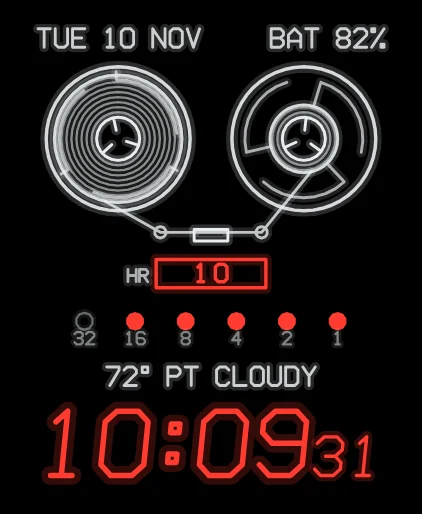
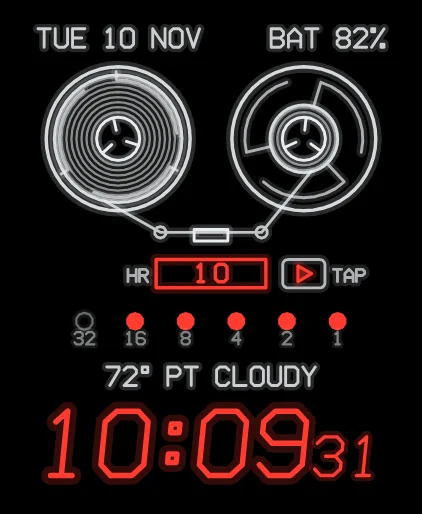
Vector Faces page: GPS and My Photo, taps, and the privacy policy
The gallery adds the GPS and My Photo faces (moving, Coming soon) and
the new descriptions for faces that react to a tap or the wrist; the
tape deck and radio pictures show their new play key. The privacy
policy covers the GPS face, the Cockpit's motion sensors and the
iPhone's Photo to Vector tool. Deployed and checked live.

Claude-Session: https://claude.ai/code/session_01K9MtsEeBZvCAswp1iy9rtu

Changed region(s): [[0.6469, 0.4981, 0.8934, 0.5914]]

diff --git a/hq/src/lib/vectorFacesGallery.ts b/hq/src/lib/vectorFacesGallery.ts
@@ -23,6 +23,7 @@ export const VECTOR_FACES_GALLERY: GalleryGroup[] = [
       { key: 'issTracker', title: 'ISS Tracker', summary: 'Where the International Space Station is now, and when it next passes over you.', soon: true, loop: true },
       { key: 'satellites', title: 'Satellites', summary: 'The real satellites crossing your sky right now.', soon: true, loop: true },
       { key: 'earthquakes', title: 'Earthquakes', summary: 'Earthquakes round the world in the last day, and the nearest to you.', soon: true, loop: true },
+      { key: 'gps', title: 'GPS', summary: 'Your speed, heading, altitude and trail from the watch\'s own GPS.', soon: true, loop: true },
     ],
   },
   {
@@ -38,8 +39,8 @@ export const VECTOR_FACES_GALLERY: GalleryGroup[] = [
     id: 'characters',
     title: 'Characters',
     faces: [
-      { key: 'buddy', title: 'Buddy', summary: 'A round little friend who looks about, blinks and says the time.', loop: true },
-      { key: 'bot', title: 'Bot', summary: 'A small robot with light-panel eyes and a dancing mouth.', loop: true },
+      { key: 'buddy', title: 'Buddy', summary: 'A round little friend who looks about, blinks and says the time. Tap and Buddy giggles.', loop: true },
+      { key: 'bot', title: 'Bot', summary: 'A small robot with light-panel eyes and a dancing mouth. Tap to make it happy.', loop: true },
     ],
   },
   {
@@ -50,8 +51,8 @@ export const VECTOR_FACES_GALLERY: GalleryGroup[] = [
       { key: 'chase', title: 'Chase', summary: 'A dog chases a cat round the screen once a minute.', soon: true, loop: true },
       { key: 'hamster', title: 'Hamster Wheel', summary: 'A hamster runs its wheel with the seconds.', soon: true, loop: true },
       { key: 'fishTank', title: 'Fish Tank', summary: 'Fish swim and bubbles rise in a little tank.', soon: true, loop: true },
-      { key: 'laserCat', title: 'Laser Cat', summary: 'A cat chases a laser dot that keeps the seconds.', soon: true, loop: true },
-      { key: 'goodDog', title: 'Good Dog', summary: 'A dog wags its tail with the seconds and perks up on the hour.', soon: true, loop: true },
+      { key: 'laserCat', title: 'Laser Cat', summary: 'A cat chases a laser dot that keeps the seconds. Tap and it pounces.', soon: true, loop: true },
+      { key: 'goodDog', title: 'Good Dog', summary: 'A dog wags its tail with the seconds and perks up on the hour. Tap for a happy jump.', soon: true, loop: true },
       { key: 'yarn', title: 'Yarn', summary: 'A ball of yarn unrolls over the hour.', soon: true, loop: true },
       { key: 'foodBowl', title: 'Food Bowl', summary: 'A pet\'s bowl empties through the day and fills at mealtimes.', soon: true, loop: true },
       { key: 'fireflies', title: 'Fireflies', summary: 'Fireflies glow and drift over the grass.', soon: true, loop: true },
@@ -112,9 +113,9 @@ export const VECTOR_FACES_GALLERY: GalleryGroup[] = [
       { key: 'intercept', title: 'Intercept', summary: 'Scales scroll for the hands, with a craft in the sights.', loop: true },
       { key: 'scope', title: 'Scope', summary: 'An oscilloscope beam writes the time.', loop: true },
       { key: 'sonar', title: 'Sonar', summary: 'Pings, echoes and a waterfall of past pings.', loop: true },
-      { key: 'cockpit', title: 'Cockpit', summary: 'Flight tapes for the minute, hour and second.', loop: true },
-      { key: 'tuner', title: 'Tuner', summary: 'A radio dial needle sweeps the hour.', loop: true },
-      { key: 'reels', title: 'Reels', summary: 'Tape winds from reel to reel through the hour.', loop: true },
+      { key: 'cockpit', title: 'Cockpit', summary: 'Flight tapes tell the time; the horizon tilts with your wrist and shows your altitude.', loop: true },
+      { key: 'tuner', title: 'Tuner', summary: 'A radio dial needle sweeps the hour. Tap for your music controls.', loop: true },
+      { key: 'reels', title: 'Reels', summary: 'Tape winds from reel to reel through the hour. Tap for your music controls.', loop: true },
       { key: 'console', title: 'Console', summary: 'A green-screen status report.', loop: true },
       { key: 'circuit', title: 'Circuit', summary: 'Pads light to the hour; pulses run each second.', loop: true },
     ],
@@ -130,7 +131,7 @@ export const VECTOR_FACES_GALLERY: GalleryGroup[] = [
       { key: 'reactor', title: 'Reactor', summary: 'Three rings light up: seconds, minutes, hours.', loop: true },
       { key: 'tesseract', title: 'Tesseract', summary: 'A 4-D cube turns once a minute; lit edges count the hour.', loop: true },
       { key: 'saucer', title: 'Flying Saucer', summary: 'A saucer crosses the sky each minute, its beam sweeping below.', soon: true, loop: true },
-      { key: 'alien', title: 'Alien', summary: 'A friendly alien who looks about and blinks.', soon: true, loop: true },
+      { key: 'alien', title: 'Alien', summary: 'A friendly alien who looks about and blinks. Tap and it waves hello.', soon: true, loop: true },
       { key: 'dish', title: 'Satellite Dish', summary: 'A dish tracks a satellite as signals pulse home.', soon: true, loop: true },
       { key: 'asteroids', title: 'Asteroid Run', summary: 'A ship weaves through an asteroid field.', soon: true, loop: true },
       { key: 'ringedPlanet', title: 'Ringed Planet', summary: 'A ringed planet turns as its moons go round.', soon: true, loop: true },
@@ -208,6 +209,7 @@ export const VECTOR_FACES_GALLERY: GalleryGroup[] = [
       { key: 'harmonograph', title: 'Harmonograph', summary: 'A pendulum drawing, one figure a minute.', loop: true },
       { key: 'garden', title: 'Garden', summary: 'Flowers grow and bloom as the seconds pass.', loop: true },
       { key: 'flags', title: 'Flags', summary: 'A flag flying in the breeze. Choose your country.', loop: true },
+      { key: 'myPhoto', title: 'My Photo', summary: 'A photo from your iPhone, traced in lines of light.', soon: true, loop: true },
     ],
   },
 ];

diff --git a/hq/src/lib/legalCopy.ts b/hq/src/lib/legalCopy.ts
@@ -77,7 +77,7 @@ export const PRIVACY: LegalCopy = {
     },
     {
       heading: 'Vector Faces',
-      body: 'Vector Faces, our Apple Watch app, sends nothing to us at all: it has no account, no analytics and no ads. To show the weather, the sunrise, the moon and the stars where you are, it uses your location rounded to about half a mile, and asks Apple Weather for the conditions there; Apple handles that request under its own privacy policy. Only while the Flights face is on screen, it sends that rounded location to adsb.lol, a community network of aircraft receivers, to get the aircraft nearby. Only while the Rain Radar face is on screen, it sends it to the U.S. National Weather Service for the radar picture. Only while the ISS Tracker or Satellites face is on screen, it downloads the latest public satellite orbits from CelesTrak, and only while the Earthquakes face is on screen, the latest earthquake list from the U.S. Geological Survey; neither request includes your location, and where the satellites and earthquakes are in relation to you is worked out on the watch. If you choose steps, heart rate or your next calendar event for a spot on a face, or use the Pulse, Oxygen or Rings faces, the watch reads your heart rate, blood oxygen, activity or calendar from Apple Health or your calendar to show them there; they never leave the watch. The Decibels face uses the microphone, only while it is on screen, to measure how loud it is: the sound is measured on the watch and thrown away, and nothing is kept or sent anywhere. You can turn off location, Health, calendar and microphone access at any time in your iPhone\'s or your watch\'s Settings.',
+      body: 'Vector Faces, our Apple Watch app, sends nothing to us at all: it has no account, no analytics and no ads. To show the weather, the sunrise, the moon and the stars where you are, it uses your location rounded to about half a mile, and asks Apple Weather for the conditions there; Apple handles that request under its own privacy policy. Only while the Flights face is on screen, it sends that rounded location to adsb.lol, a community network of aircraft receivers, to get the aircraft nearby. Only while the Rain Radar face is on screen, it sends it to the U.S. National Weather Service for the radar picture. Only while the ISS Tracker or Satellites face is on screen, it downloads the latest public satellite orbits from CelesTrak, and only while the Earthquakes face is on screen, the latest earthquake list from the U.S. Geological Survey; neither request includes your location, and where the satellites and earthquakes are in relation to you is worked out on the watch. The GPS face uses the watch\'s own precise GPS, only while it is on screen, to show your speed, heading and trail; those positions never leave the watch. The Cockpit face reads the watch\'s motion sensors and altimeter, on the watch only. The iPhone app\'s Photo to Vector tool traces a photo you take or choose into line art on the iPhone itself; the photo is never sent anywhere, and the only thing that leaves the phone is the line drawing, sent to your own watch when you ask. If you choose steps, heart rate or your next calendar event for a spot on a face, or use the Pulse, Oxygen or Rings faces, the watch reads your heart rate, blood oxygen, activity or calendar from Apple Health or your calendar to show them there; they never leave the watch. The Decibels face uses the microphone, only while it is on screen, to measure how loud it is: the sound is measured on the watch and thrown away, and nothing is kept or sent anywhere. You can turn off location, Health, calendar and microphone access at any time in your iPhone\'s or your watch\'s Settings.',
     },
     {
       heading: 'Where it is kept, and for how long',

diff --git a/STATE.md b/STATE.md
@@ -451,6 +451,12 @@ one is added; it does not need a new build.
   button (`apps/vector-faces/FaceMotion.tsx`, remembered in localStorage `vectorFaces.motion`)
   freezes them for WCAG 2.2.2; it appears only with JavaScript and is hidden under reduced motion.
   Checked locally with site-check and in Chromium, then live.
+  Then (13 Nov, about 17:45 UTC) the gallery has 123 faces: GPS (Live) and My Photo (Art and Fun)
+  joined, still "Coming soon", and the descriptions of Buddy, Bot, Alien, Good Dog, Laser Cat,
+  Cockpit, Reels and Tuner mention what a tap or the wrist now does. The Privacy Policy adds the
+  GPS face (precise GPS, on the watch only), the Cockpit's motion sensors and altimeter (on the
+  watch only) and the iPhone's Photo to Vector tool (traced on the phone; only the drawing goes,
+  to your own watch). Checked live.
   Reported, not fixed: `fanfare-brass.m4a` true peak +3.3 dBTP (the mono
   downmix in `tools/music` happens after the limiter; fix is downmix before
   `loudnorm`, re-render — a new take for Marc to hear), `music-brass-hot`
